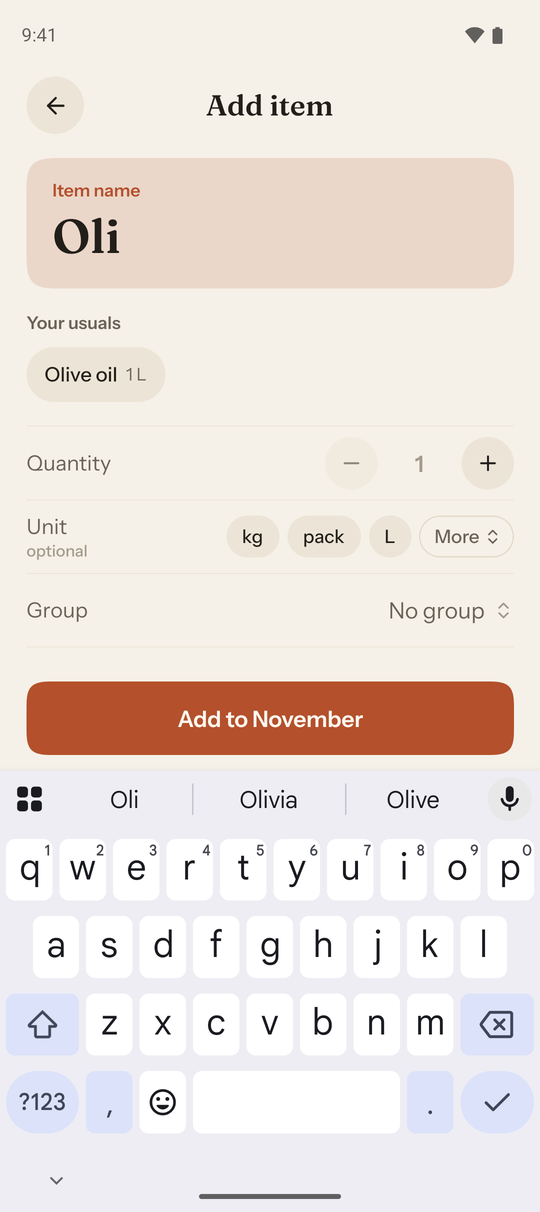
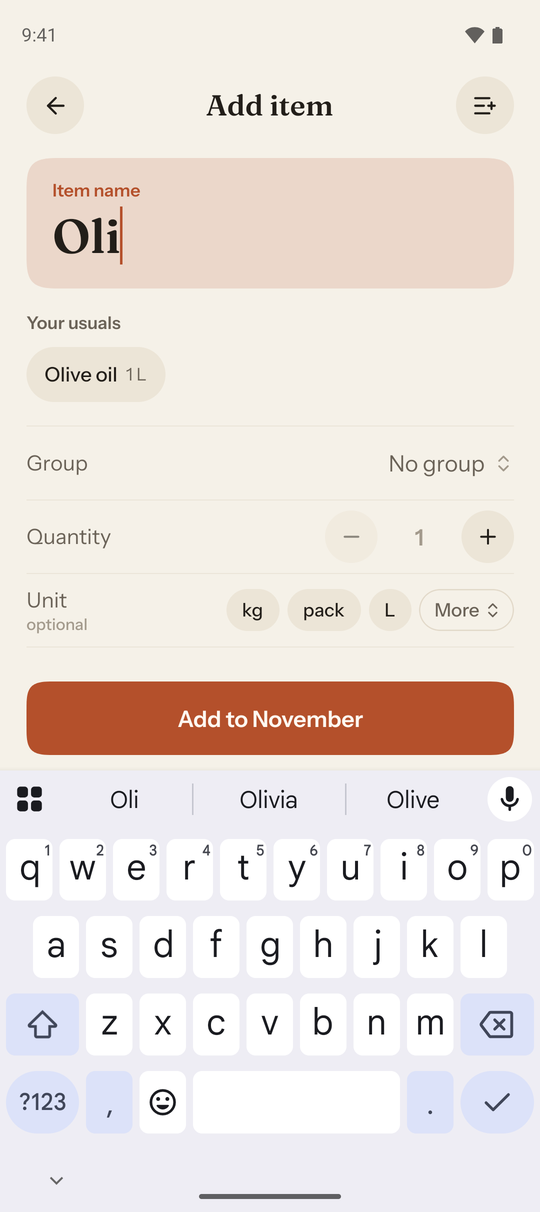
Refresh the README screenshots and add Features and Screenshots sections
One row of screenshots stays at the top, followed by a short feature list.
The extra screens move to their own Screenshots section, with new shots of
the Add more flow and the group picker. The Add item and Settings shots are
retaken to show the header Add more button and the Keep group setting.

Claude-Session: https://claude.ai/code/session_01NvECXWkB3J15sqN3h3YnpV

diff --git a/README.md b/README.md
@@ -8,10 +8,27 @@ A self-hosted, offline-first household grocery list. One list per month, shared 
   <img src="docs/screenshots/arrange.png" width="24%" alt="Arranging the list by group or by priority" />
   <img src="docs/screenshots/dark.png" width="24%" alt="The list in dark mode" />
 </p>
+
+## Features
+
+- **One list per month.** Anything you didn't buy carries over to next month by itself, tagged with when it was first added.
+- **Shared live.** Everyone in the house sees changes as they happen. Pick a profile on each phone; there are no accounts.
+- **Works offline.** Every edit applies on the phone first and syncs when the server is back in reach.
+- **Quick to add.** Suggestions from your usual items, remembered units and groups, and an "Add more" mode for entering a whole shop in one go.
+- **Groups your way.** Sections like Fruits & vegetables or Dairy & eggs, each with its own icon and color. Sort the list by group or by priority.
+- **Make it yours.** Light, dark or system theme, six accent colors, and per-phone choices like hiding units.
+- **Self-hosted.** One small container holds your data ([deploy it](#deploy-the-server)). The same code runs on Android, iOS and as a web app.
+
+## Screenshots
+
 <p align="center">
-  <img src="docs/screenshots/settings.png" width="24%" alt="Settings: appearance, accent color, units and where checked items go" />
+  <img src="docs/screenshots/add-more.png" width="24%" alt="Add more: after adding Yogurt, a snackbar offers Undo and the form stays open in the same group" />
+  <img src="docs/screenshots/group-picker.png" width="24%" alt="Picking a group for a new item" />
   <img src="docs/screenshots/groups.png" width="24%" alt="Groups, each with its own icon and color, in the order they appear in the list" />
+  <img src="docs/screenshots/settings.png" width="24%" alt="Settings: appearance, accent color, units, Keep group and where checked items go" />
 </p>
+
+## Repository layout
 
 ```
 apps/mobile    Expo app (iOS, Android, and the web PWA from the same code)
